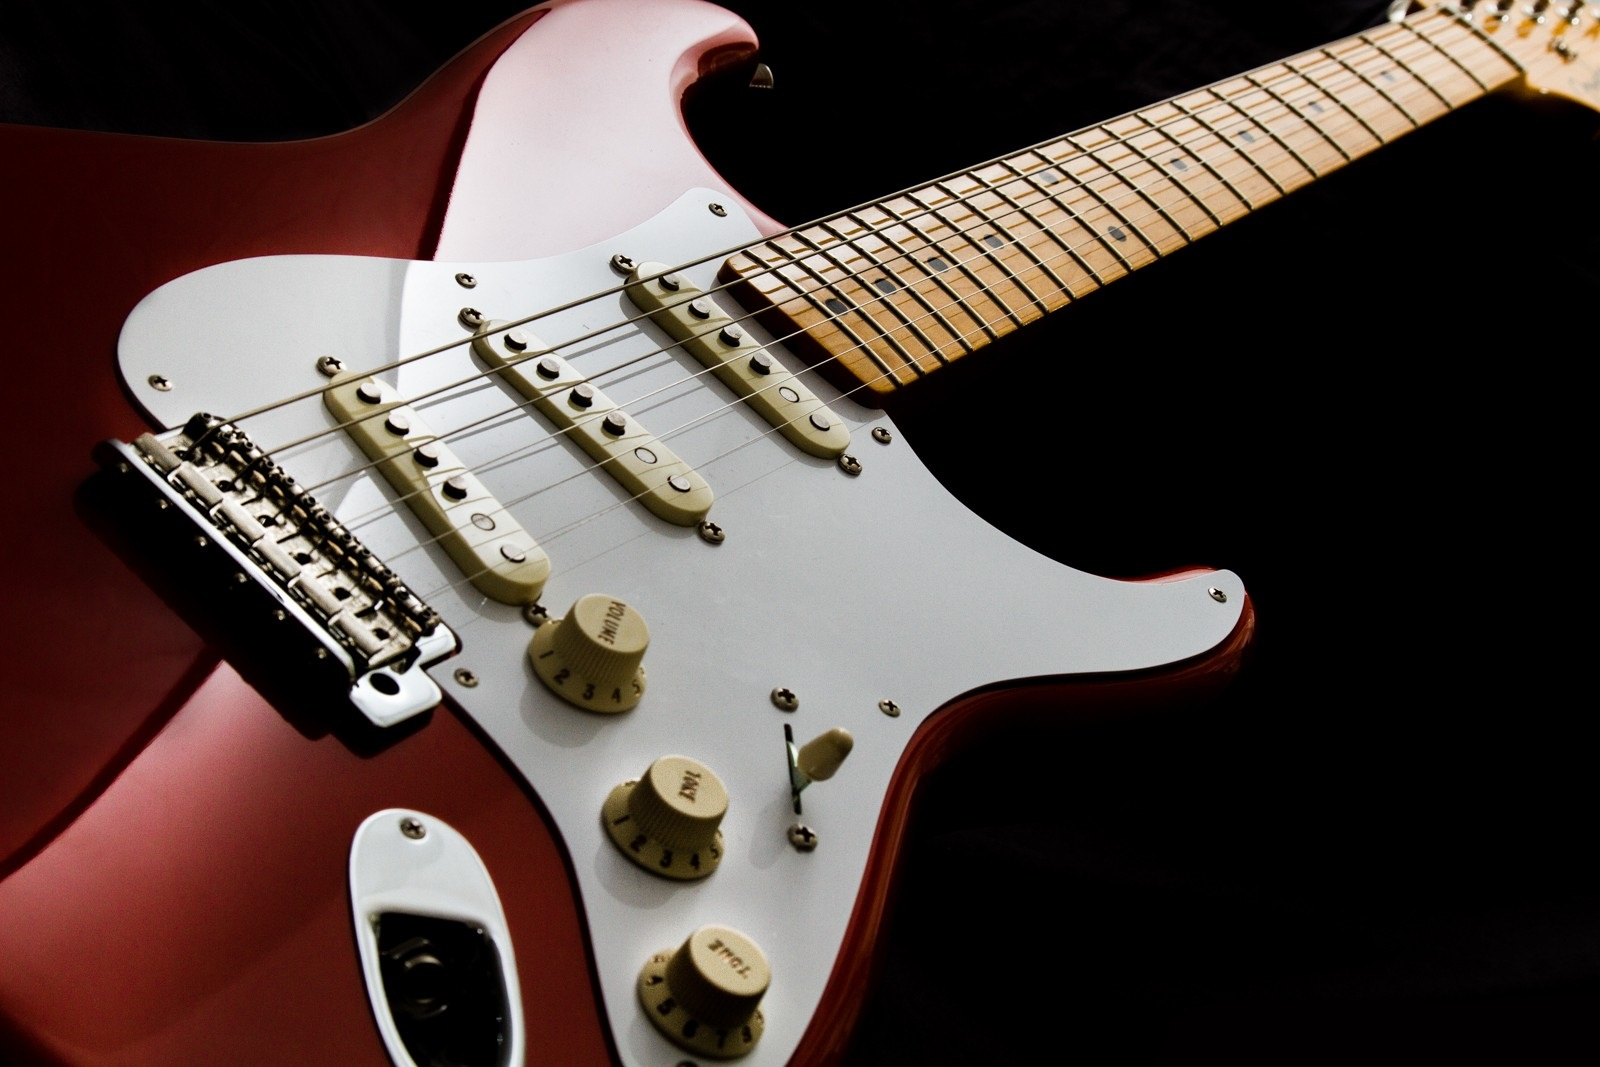
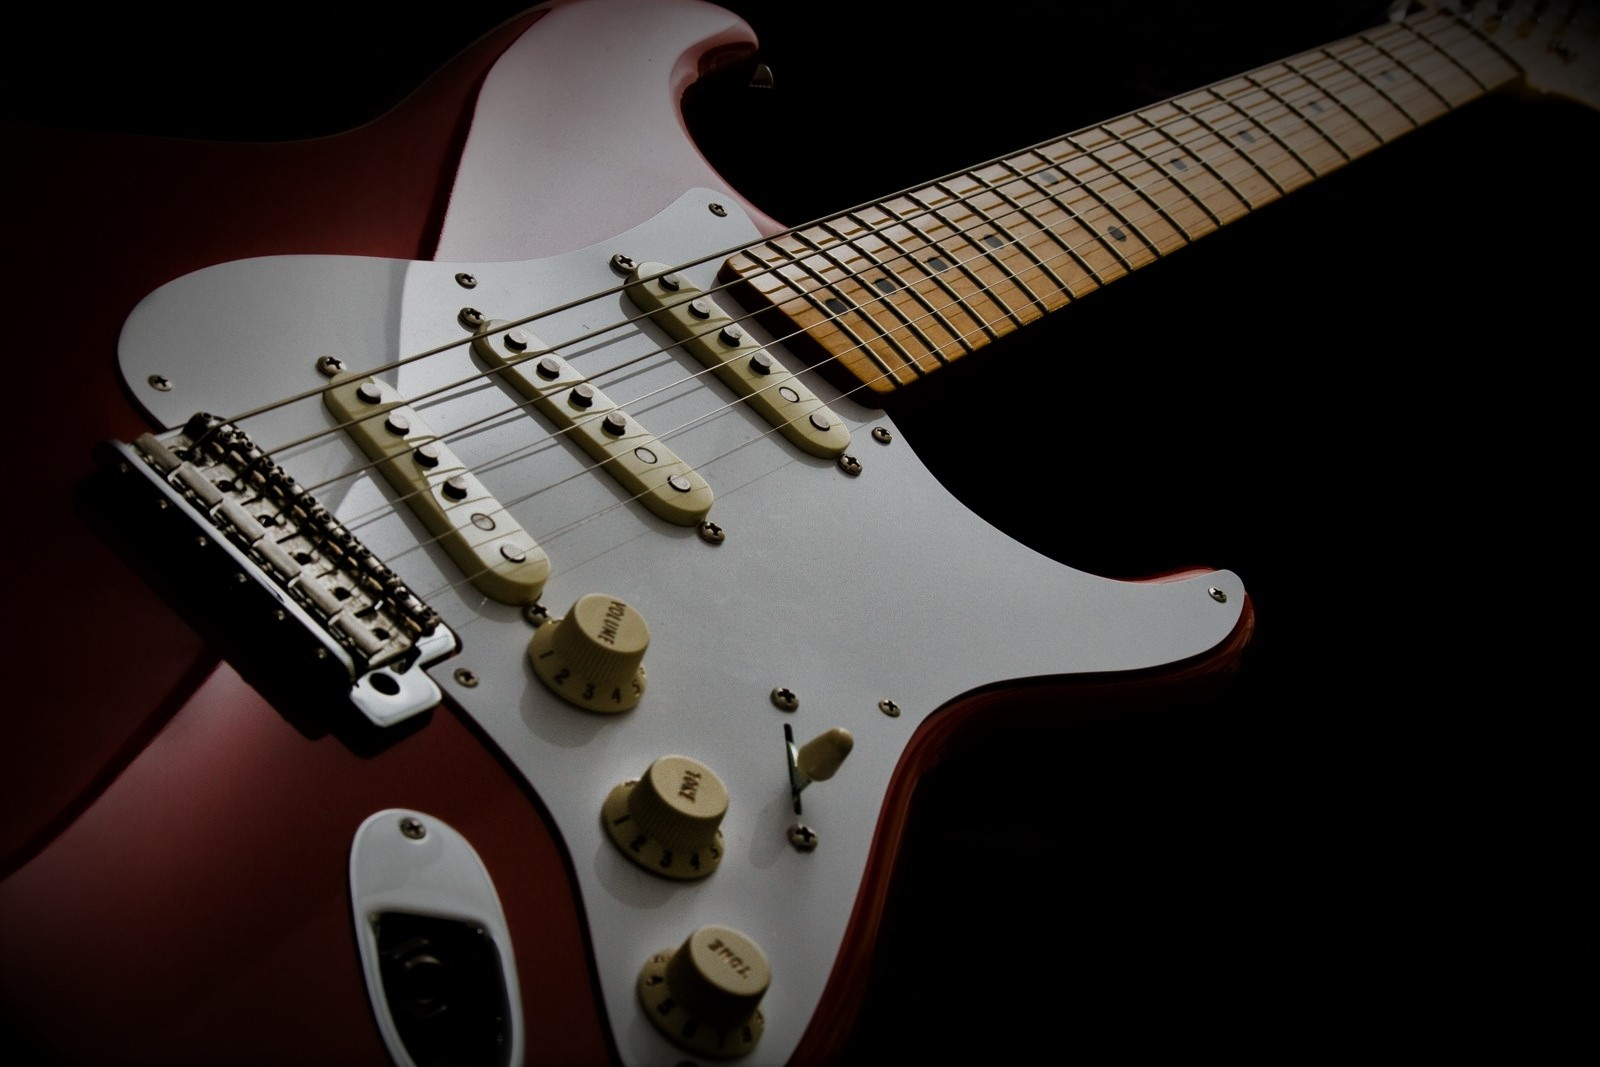
modif mineures visuelles

diff --git a/style.css b/style.css
@@ -40,7 +40,7 @@ html {
 
 #progressBarF {
   background-color: #790000;
-  width: 15%;
+  width: 20%;
 }
 
 #progressBarH {
@@ -144,6 +144,7 @@ html {
 h2 {
   font-family: 'Amplify';
   font-size: 5em;
+  text-shadow: 0px 0px 40px black;
 }
 
 h3 {
@@ -154,7 +155,7 @@ h3 {
 
 /* Section 2 */
 #section2 {
-  background-image: url("img/Tube.jpg");
+  background-image: url("img/Strato.jpg");
   background-repeat: no-repeat;
   background-position: center;
   background-size: cover;
@@ -220,8 +221,10 @@ h3 {
 }
 
 #section4 p {
-  font-size: 3em;
+  font-size: 4em;
   font-family: 'Amplify';
+  color: white;
+  text-shadow: 0px 0px 40px black;
 }
 
 

diff --git a/index.php b/index.php
@@ -44,8 +44,8 @@ include "connexion.php";
   <!-- Ligne séparation -->
   <div id="progress" class="progress">
     <div class="progress-bar" id="progressBarA" ></div>
-    <div class="progress-bar" id="progressBarB"></div>
-    <div class="progress-bar" id="progressBarC"></div>
+    <div class="progress-bar" id="progressBarE"></div>
+    <div class="progress-bar" id="progressBarF"></div>
   </div>
 
 </section>
@@ -53,7 +53,7 @@ include "connexion.php";
 
 <!-- Section 2 : Projets & Réalisations -->
 <div id="section2" class="container-fluid text-light">
-  <h2 class="text-left pl-5 pt-3 ">Projets & Réalisations</h2>
+  <h2 class="text-right pr-5 pt-3 ">Projets & Réalisations</h2>
   <div class="projets">
     <a href="noWay.php" class="box">
       <img src="img/Faun.png">
@@ -75,8 +75,8 @@ include "connexion.php";
 
   <div class="progress" id="progress">
     <div class="progress-bar" id="progressBarA" ></div>
-    <div class="progress-bar" id="progressBarE"></div>
-    <div class="progress-bar" id="progressBarF"></div>
+    <div class="progress-bar" id="progressBarB"></div>
+    <div class="progress-bar" id="progressBarC"></div>
   </div>
 
 </div>
@@ -86,7 +86,7 @@ include "connexion.php";
 
 <!-- Section 4 : Contact-->
 <div id="section4" class="container-fluid text-light">
-  <h2 class="text-left pl-5 pt-3 ">Contact</h2>
+  <h2 class="text-right pr-5 pt-3 ">Contact</h2>
   <div class="container justify-content-center">
 
     <p class="text-center mb-5">Vous pouvez me contacter par le formulaire ci-dessous.</p>
